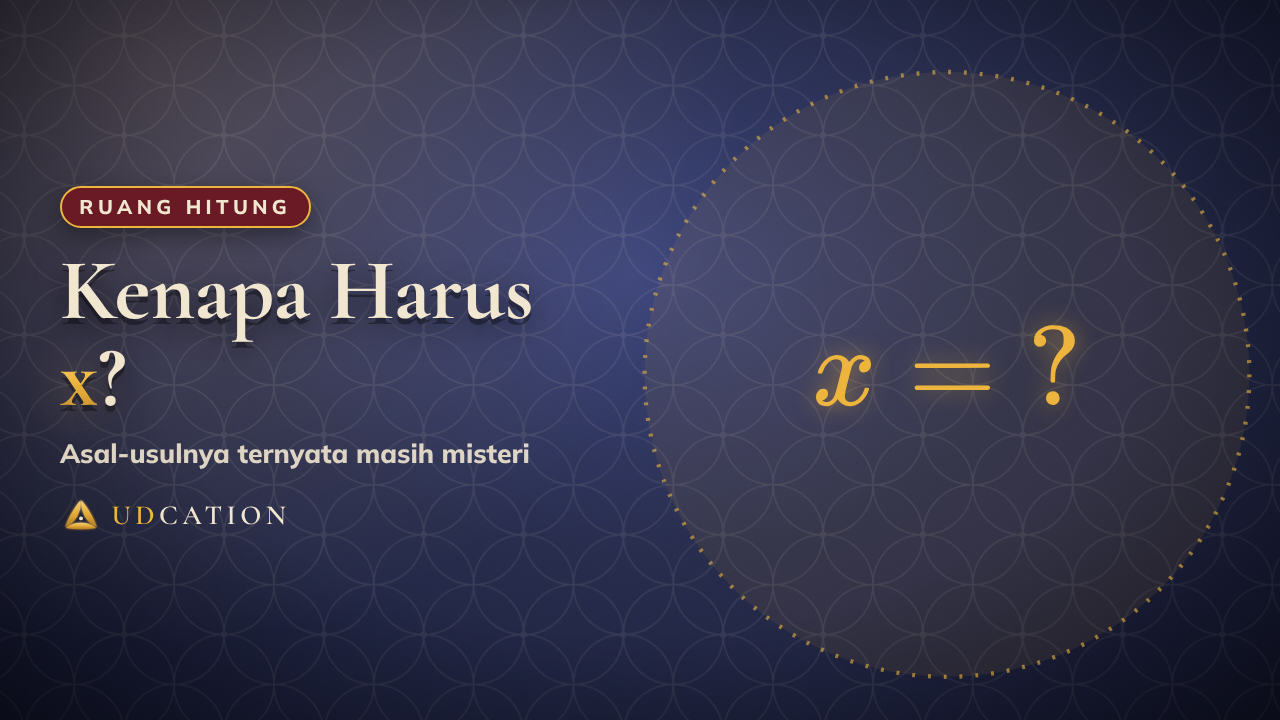
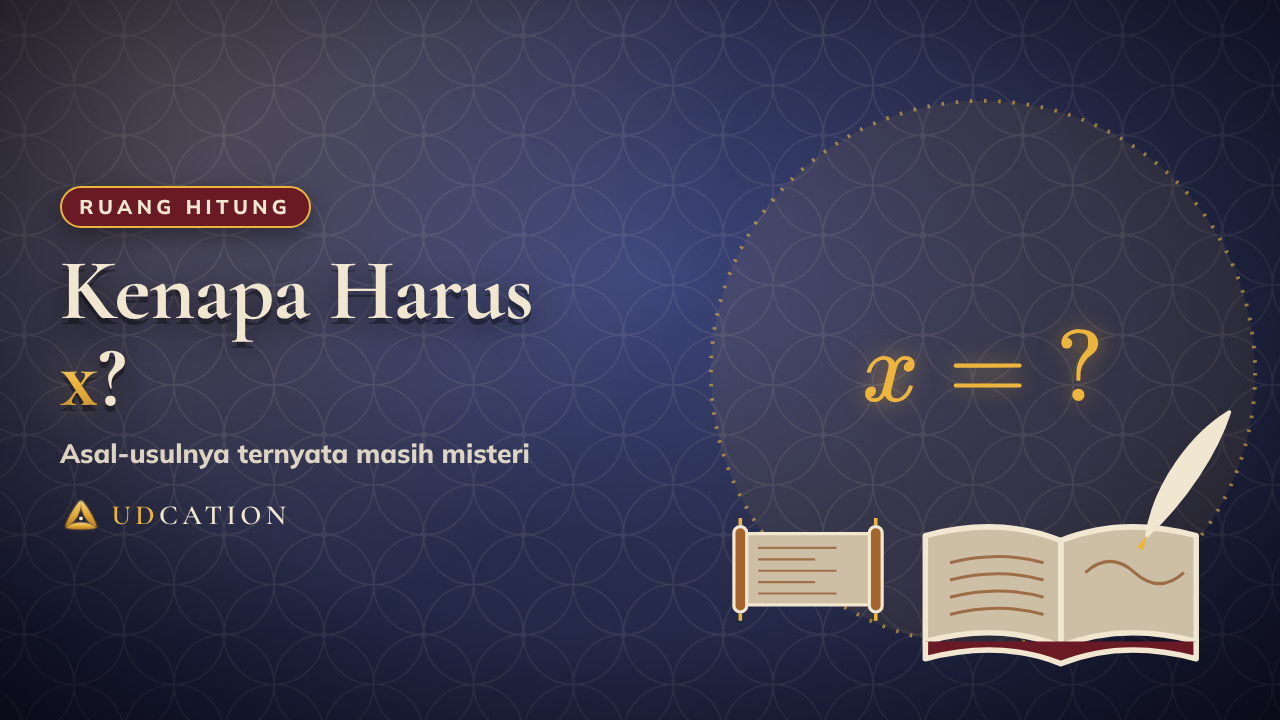
Illustrate Pythagoras & AsalUsulX thumbnails; fit YouTube thumbnail art
Claude-Session: https://claude.ai/code/session_01Fd2V3BiTRSVPFCE2qzBJ5B

Changed region(s): [[0.7188, 0.5806, 0.9688, 0.9472], [0.625, 0.4278, 0.875, 0.5806], [0.5625, 0.7333, 0.6875, 0.8556]]

diff --git a/studio/src/Thumbnail.tsx b/studio/src/Thumbnail.tsx
@@ -139,7 +139,7 @@ export const Thumbnail: React.FC<{ storyboard: Storyboard }> = ({ storyboard: sb
     <AbsoluteFill>
       <Background variant="navy" />
       <div style={{ position: "absolute", right: -40 * s, top: 0, bottom: 0, display: "flex", alignItems: "center" }}>
-        <Art sb={sb} size={height * 1.0} />
+        <Art sb={sb} size={height * 0.9} />
       </div>
       <AbsoluteFill style={{ justifyContent: "center", alignItems: "flex-start", paddingLeft: 90 * s, width: width * 0.6 }}>
         <Badge text={nama} s={s} />
